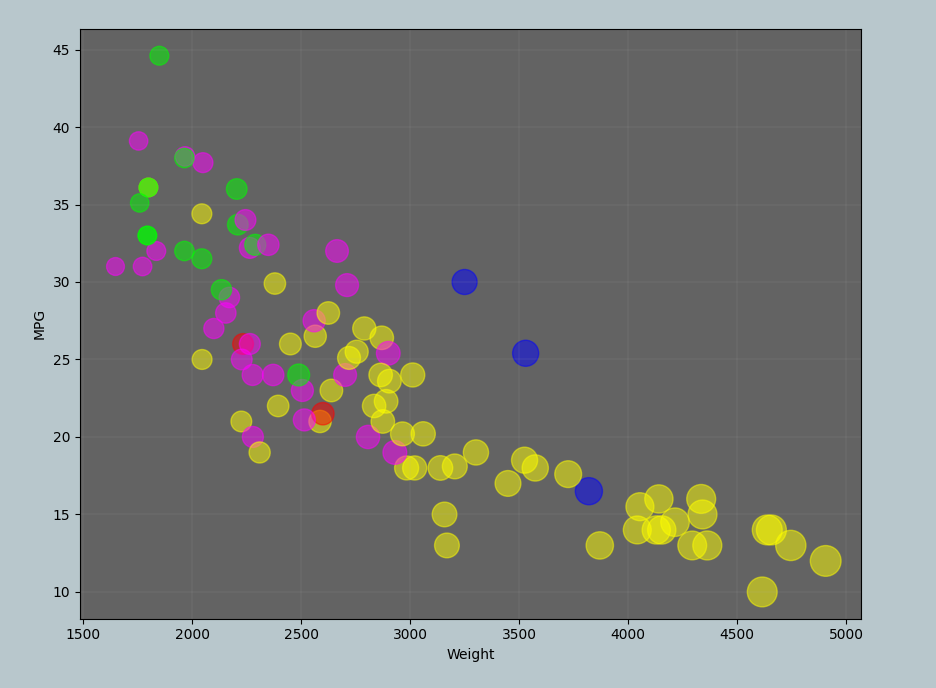
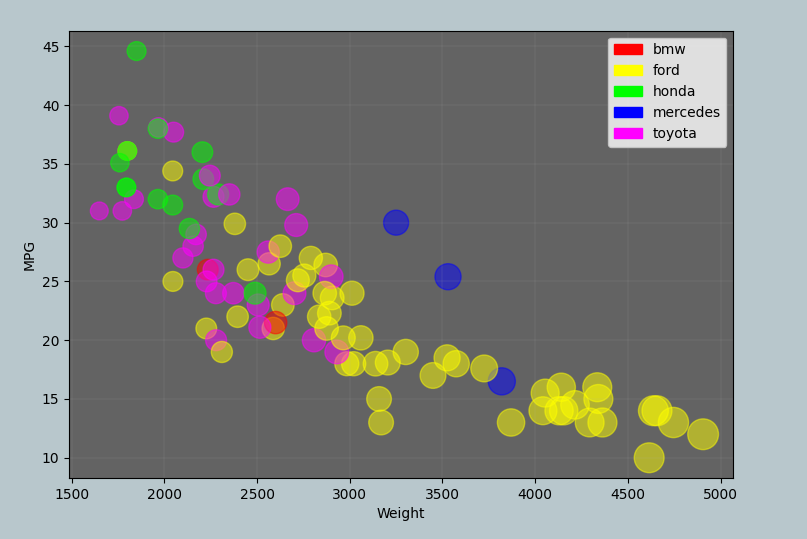
Matplotlib and Design Achievement

diff --git a/Matplotlib/matplot.py b/Matplotlib/matplot.py
@@ -1,6 +1,7 @@
 import numpy as np
 import pandas as pd
 import matplotlib.pyplot as plt
+import matplotlib.patches as mpatches
 
 df = pd.read_csv('data/cars-sample.csv')
 df = df.replace(to_replace =["bmw"],  value ="#ff0000")
@@ -8,6 +9,12 @@ df = df.replace(to_replace =["ford"],  value ="#ffff00")
 df = df.replace(to_replace =["honda"],  value ="#00ff00")
 df = df.replace(to_replace =["mercedes"],  value ="#0000ff")
 df = df.replace(to_replace =["toyota"],  value ="#ff00ff")
+
+bmw_patch = mpatches.Patch(color='#ff0000', label='bmw')
+ford_patch = mpatches.Patch(color='#ffff00', label='ford')
+honda_patch = mpatches.Patch(color='#00ff00', label='honda')
+mercedes_patch = mpatches.Patch(color='#0000ff', label='mercedes')
+toyota_patch = mpatches.Patch(color='#ff00ff', label='toyota')
 
 scale = 0.1
 df['Size'] = df["Weight"] * scale
@@ -19,4 +26,6 @@ scatter = plt.scatter(x='Weight', y='MPG', s='Size', c='Manufacturer', alpha=0.5
 plt.gca().set_facecolor("#636363")
 plt.xlabel('Weight')
 plt.ylabel('MPG')
+plt.legend(handles=[bmw_patch, ford_patch, honda_patch, mercedes_patch, toyota_patch])
+
 plt.show()

diff --git a/README.md b/README.md
@@ -3,20 +3,6 @@
 Assignment 2 - Data Visualization, 5 Ways  
 ===
 
-- Write a paragraph for each visualization tool you use. What was easy? Difficult? Where could you see the tool being useful in the future? Did you have to use any hacks or data manipulation to get the right chart?
-
-Other Requirements
----
-
-0. Your code should be forked from the GitHub repo.
-1. Place all code, Excel sheets, etcetera in a named folder. For example, `r-ggplot, matlab, mathematica, excel` and so on.
-2. Your writeup (readme.md in the repo) should also contain the following:
-
-- Description of the Technical achievements you attempted with this visualization.
-  - Some ideas include interaction, such as mousing over to see more detail about the point selected.
-- Description of the Design achievements you attempted with this visualization.
-  - Some ideas include consistent color choice, font choice, element size (e.g. the size of the circles).
-
 Plots
 ---
 
@@ -28,7 +14,7 @@ Without much experience in R I was quite hesitant to pick up this library, oh ma
 
 # Matplotlib
 
-Matplotlib was a bit more familiar territory for me. I have use some of the library and Python in a previous class, so I was able to load the csv and make a scatter plot fairly quickly. The documentation came in quite handy for scaling the points and coloring them. I have not gotten the legend to work yet, I plan to tackle that one soon.
+Matplotlib was a bit more familiar territory for me. I have use some of the library and Python in a previous class, so I was able to load the csv and make a scatter plot fairly quickly. The documentation came in quite handy for scaling the points and coloring them. After a while I came back to add the grid lines and the legend *see Design Achievement*.
 
 ![Matplot](img/MatPlot_1.png)
 
@@ -36,7 +22,7 @@ Docs: <a href="https://matplotlib.org/api/_as_gen/matplotlib.pyplot.html" target
 
 # D3
 
-I still have a lot to learn when it comes to D3 and the syntax is still a bit tricky. I was able to find a simple scatter plot example (<a href=https://www.d3-graph-gallery.com/graph/scatter_basic.html target="_blank"> Basic scatterplot in d3.js</a>) that really helped me get started. It’s still a handful jumping between HTML, D3 and JS docks, but, before long I was able to replicate the plot.
+I still have a lot to learn when it comes to D3 and the syntax is still a bit tricky. I was able to find a simple scatter plot example (<a href=https://www.d3-graph-gallery.com/graph/scatter_basic.html target="_blank"> Basic scatterplot in d3.js</a>) that really helped me get started. It’s still a handful jumping between HTML, D3 and JS docks, but, before long I was able to replicate the plot.I still have difficulties lining things up with divs and margins and makes for a lot of “Magic” numbers that hurt code readability.
 
 ![D3Plot](img/D3Plot.png)
 
@@ -58,8 +44,7 @@ Excel would not be my first choice when making a vis. It was easy to separate th
 
 
 ## Technical Achievements
-- **Proved P=NP**: Using a combination of...
-- **Solved AI Forever**: ...
+- None this time around :(
 
 ### Design Achievements
-- **Re-vamped Apple's Design Philosophy**: As demonstrated in my colorscheme...
+- For a while I had been making graphs with matplotlib without gridlines, legends, or even labels. Finally, I decided to end this madness by taking advantage of powerful tools like plt.grid, plt.legend, and patches. Though my colors could probably use some work I think this turned out to be one of the better-looking graphs.
